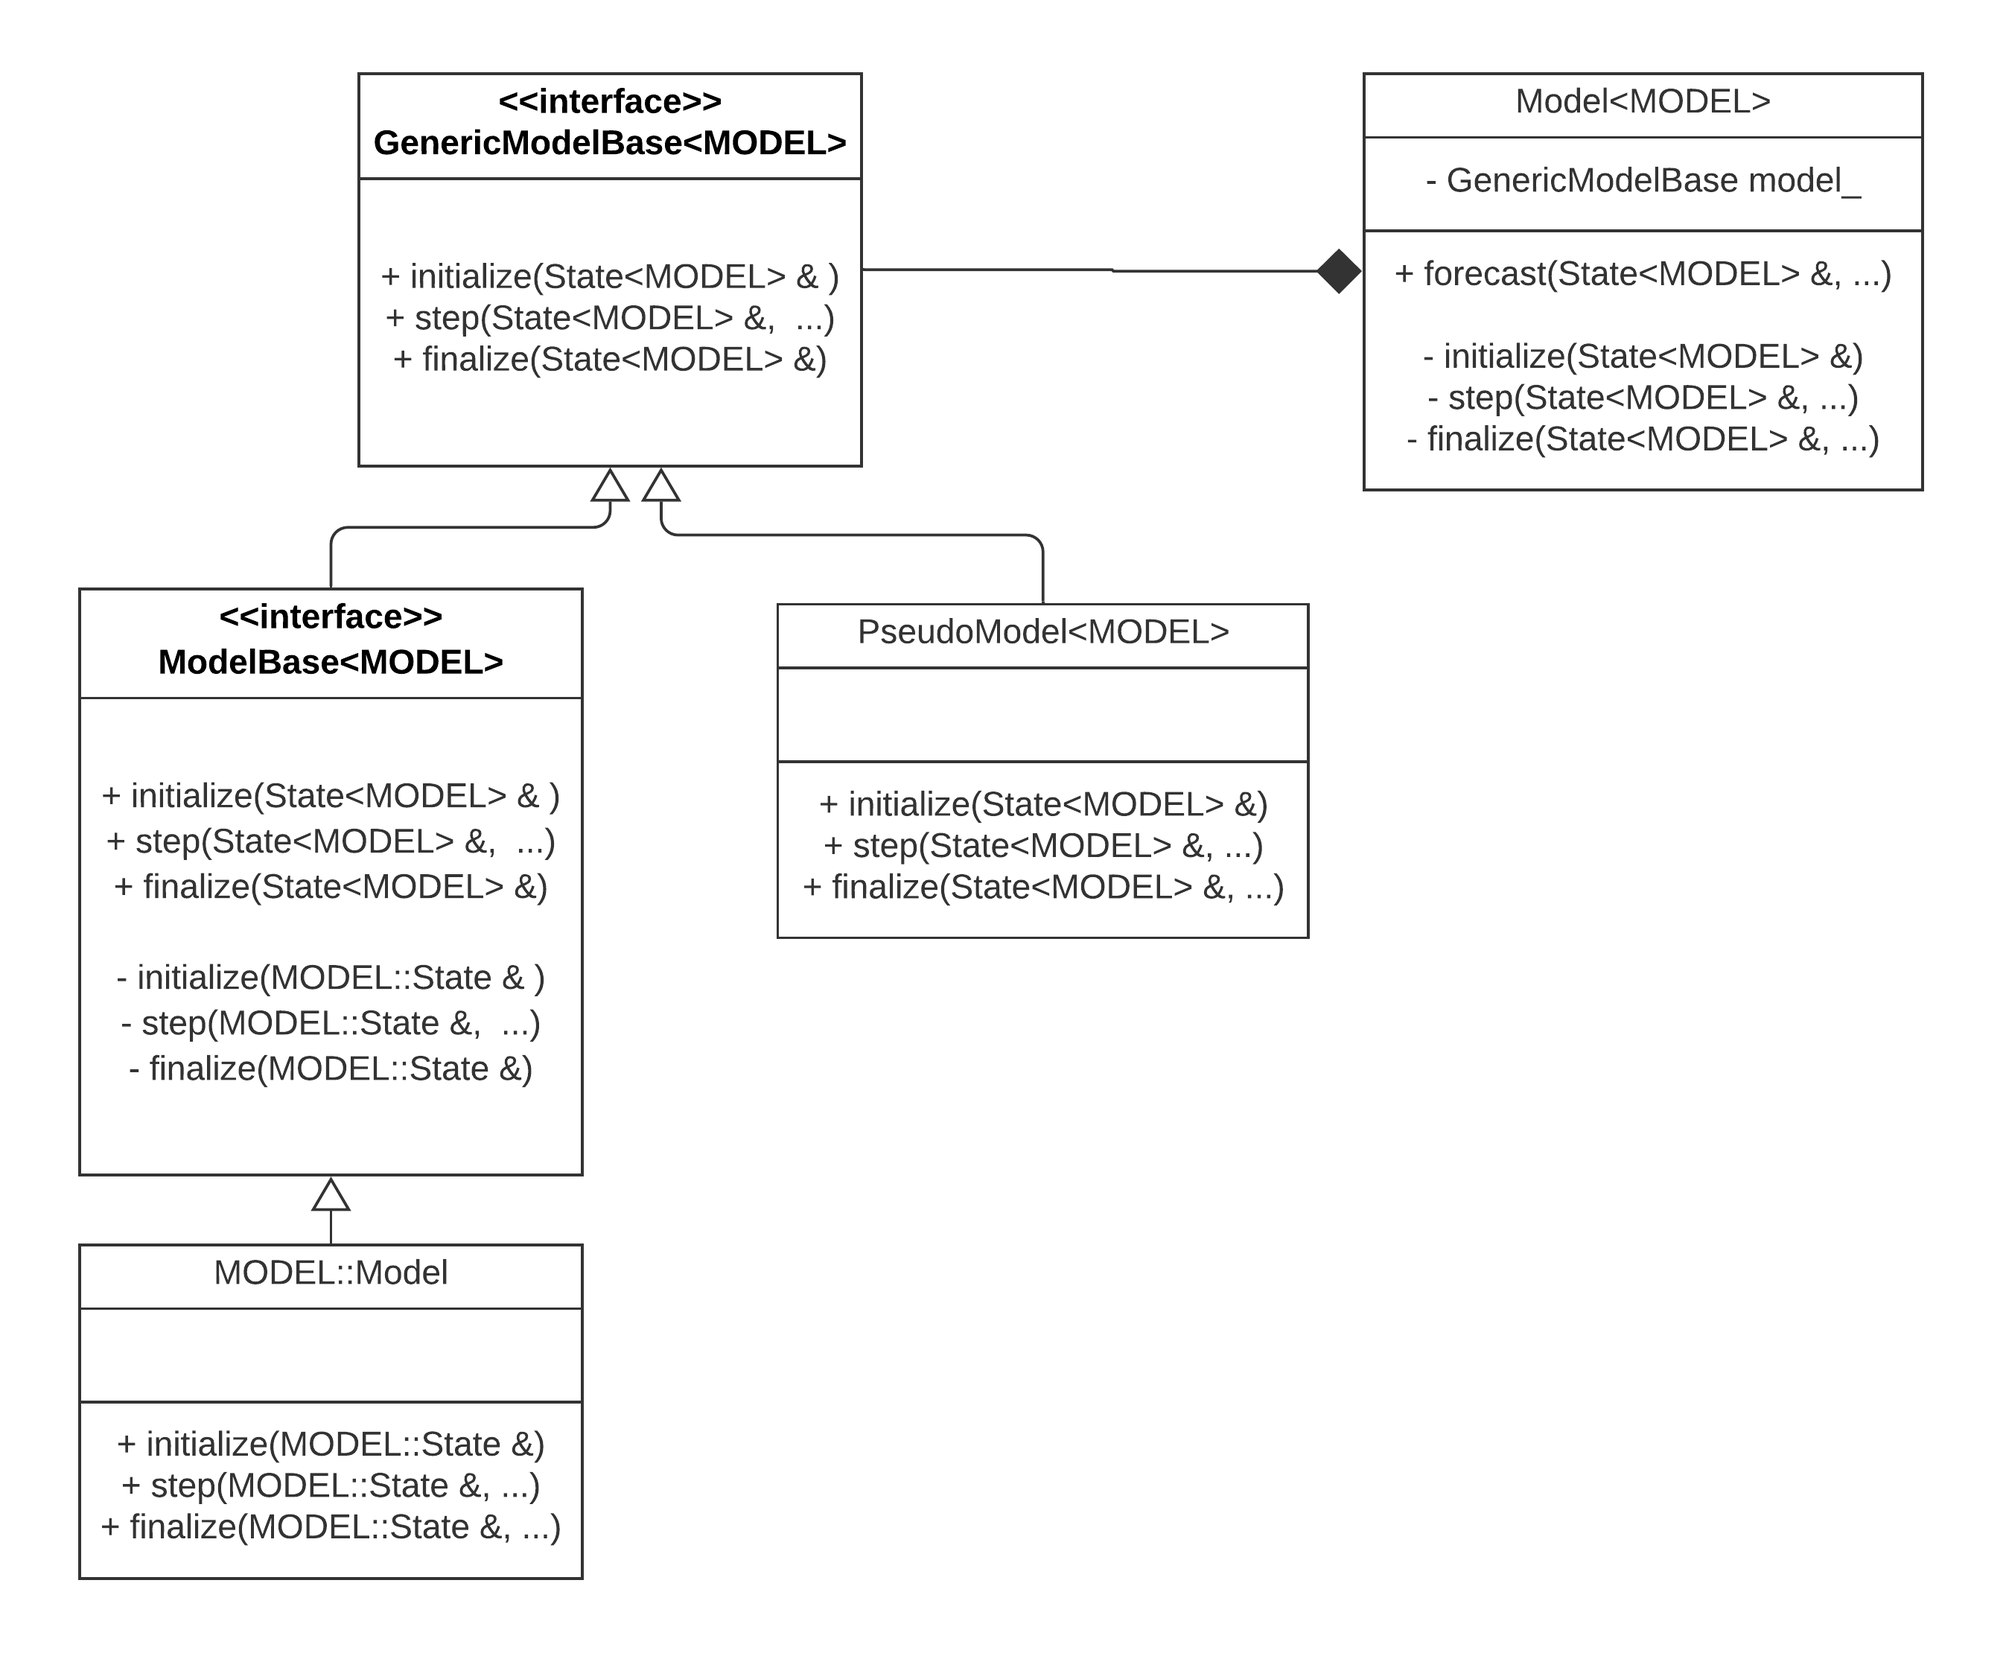
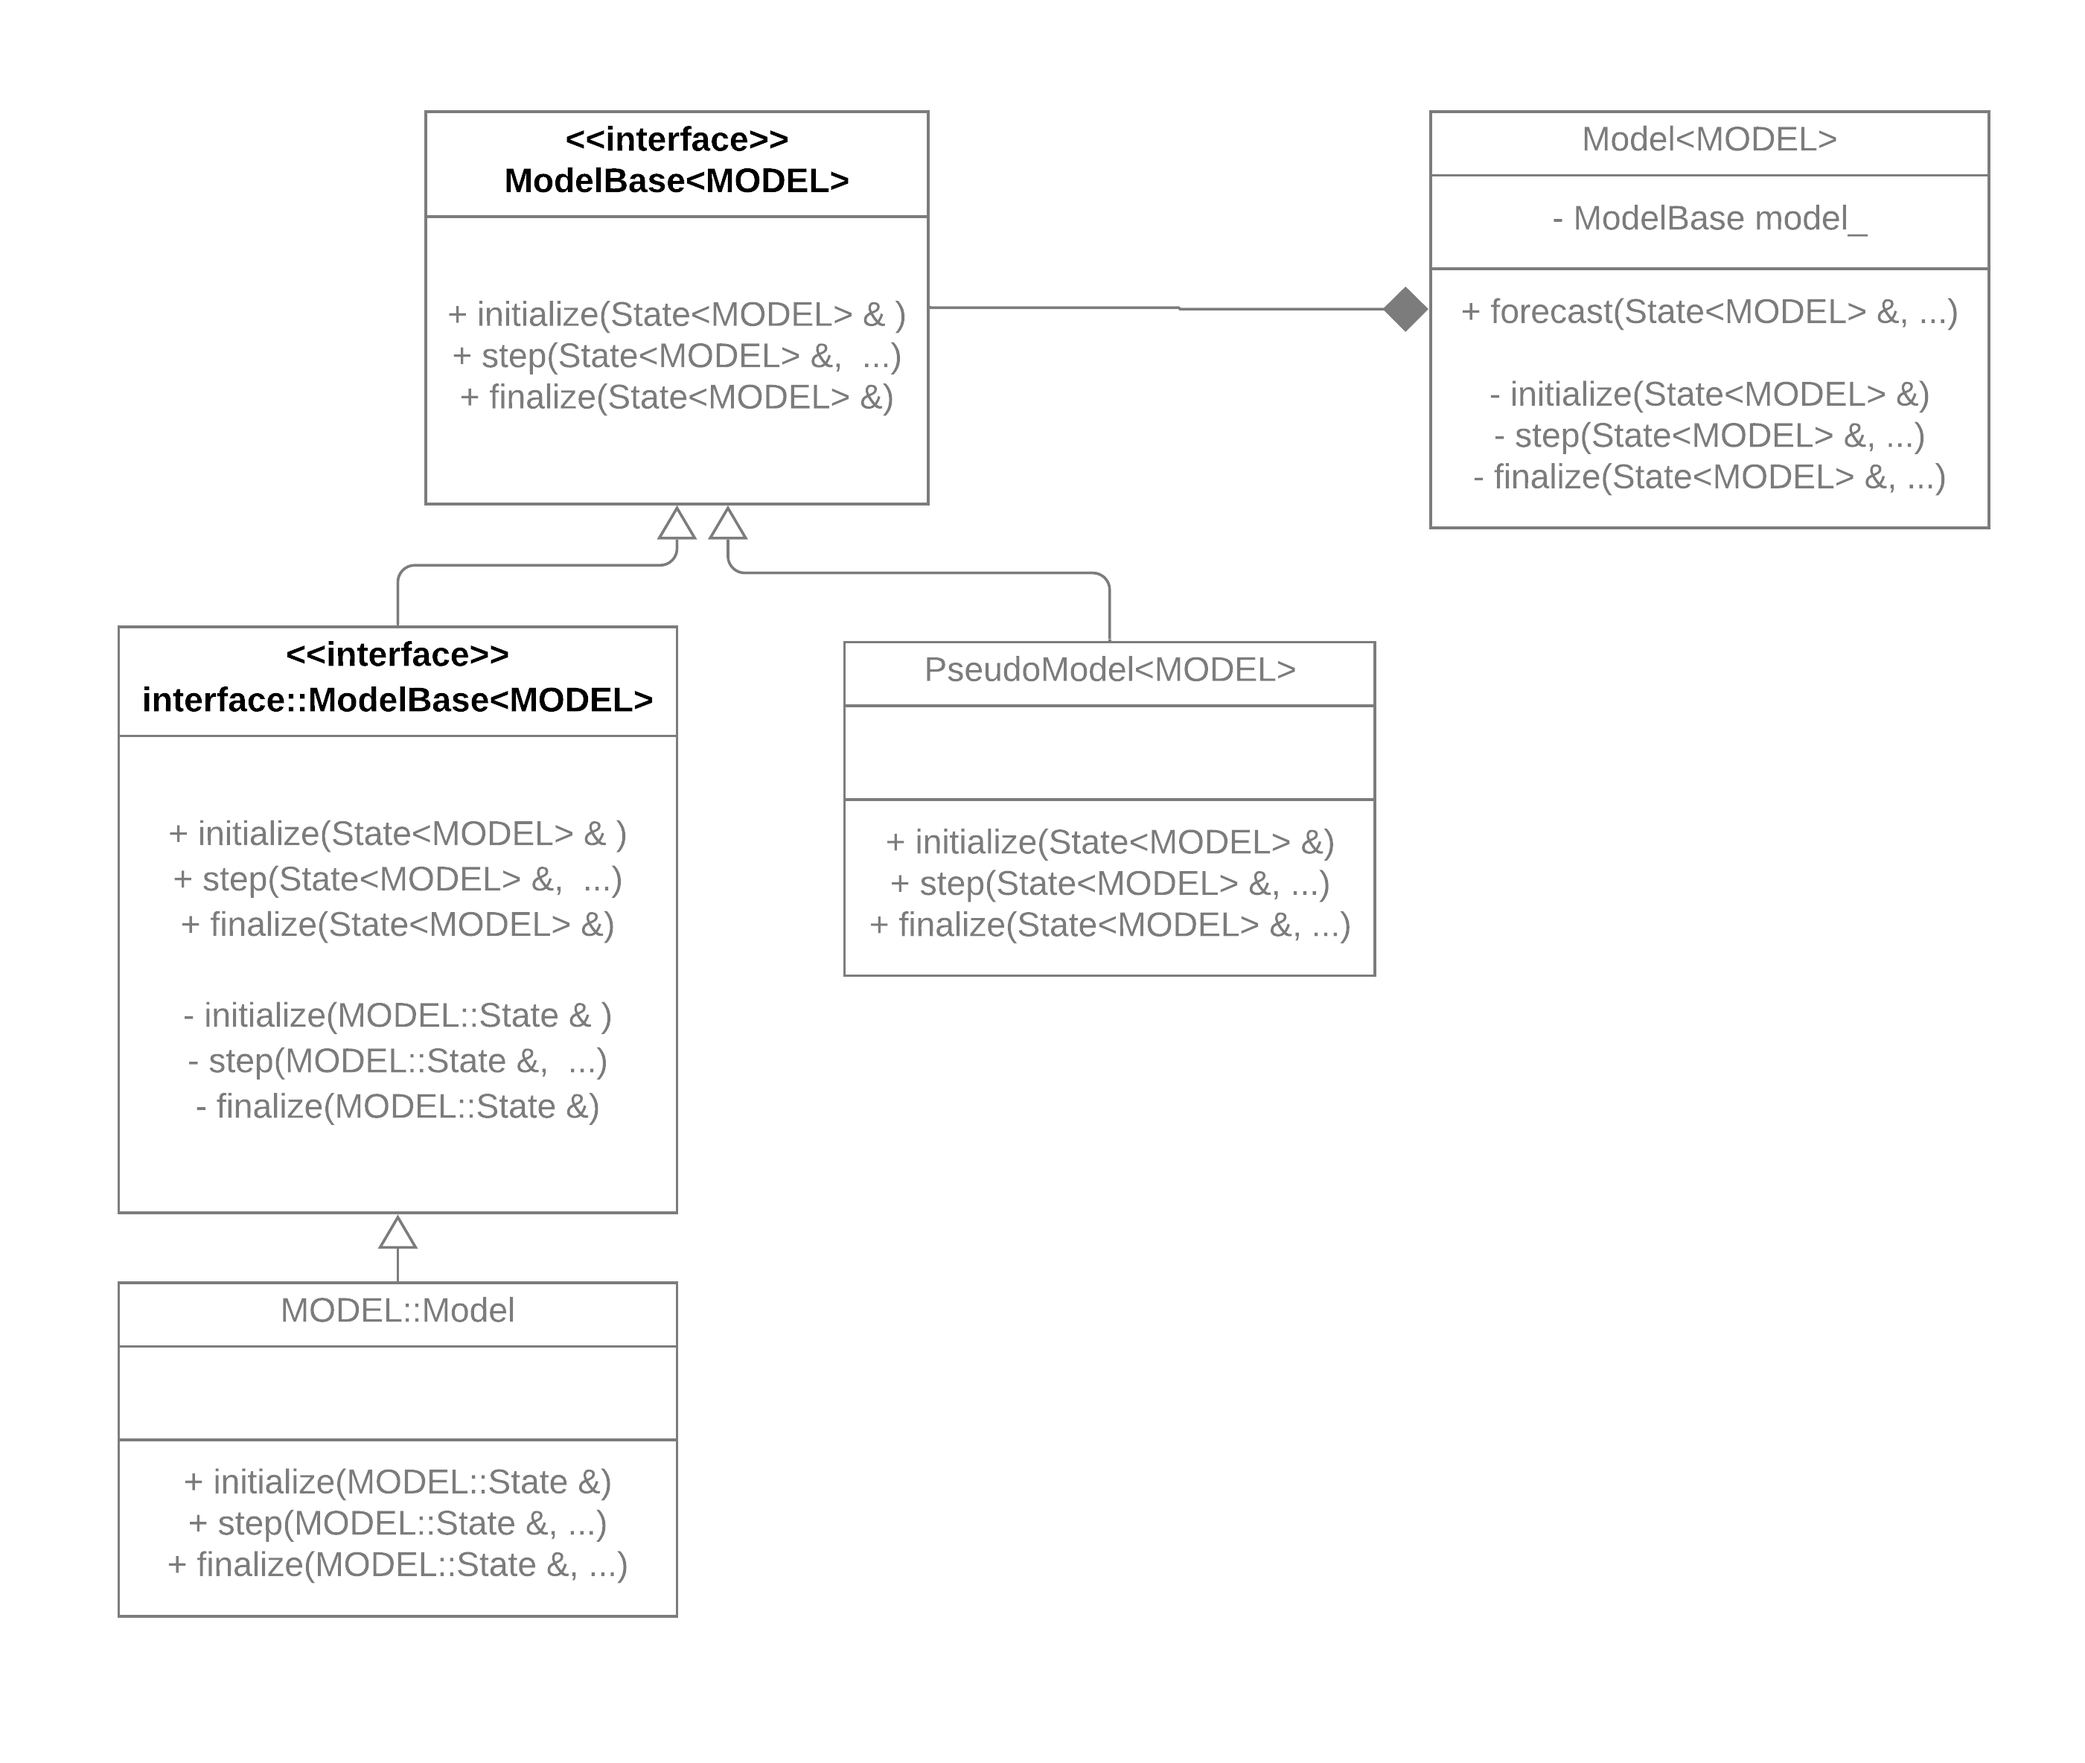
update interface classes description (#224)
* update interface classes description

* typo

diff --git a/docs/inside/jedi-components/oops/interfaces/interfaces.rst b/docs/inside/jedi-components/oops/interfaces/interfaces.rst
@@ -54,18 +54,20 @@ Example of OOPS implementation of classes defined in traits
 
    Class diagram for Geometry-related classes
 
-Here :code:`MODEL::Geometry` implementation (an implementation of :code:`Geometry` specified in the :code:`MODEL` traits, e.g. Geometry implemented in Lorenz95 model, or fv3-jedi model, or mpas-jedi model) has to implement the interface defined in :code:`interface::Geometry<MODEL>`. :code:`interface::Geometry<MODEL>` holds a pointer to :code:`MODEL::Geometry` implementation; each of the methods in :code:`interface::Geometry<MODEL>` calls a corresponding method in :code:`MODEL::Geometry` (with added tracing and timing). If any of the :code:`interface::Geometry<MODEL>` methods took :code:`SomeClass<MODEL>` on input, :code:`MODEL::SomeClass` would be passed during the call to the :code:`MODEL::Geometry` implementation of the method.
+Here :code:`MODEL::Geometry` implementation (an implementation of :code:`Geometry` specified in the :code:`MODEL` traits, e.g. Geometry implemented in Lorenz95 model, or fv3-jedi model, or mpas-jedi model) has to implement the interface defined in :code:`interface::Geometry<MODEL>` class (in the :code:`interface` directory in oops). :code:`interface::Geometry<MODEL>` holds a pointer to :code:`MODEL::Geometry` implementation; each of the methods in :code:`interface::Geometry<MODEL>` calls a corresponding method in :code:`MODEL::Geometry` (with added tracing and timing). If any of the :code:`interface::Geometry<MODEL>` methods took :code:`SomeClass<MODEL>` on input, :code:`MODEL::SomeClass` would be passed during the call to the :code:`MODEL::Geometry` implementation of the method.
 
-:code:`Geometry<MODEL>` is a class that is used in oops classes interacting with geometries. It is a subclass of :code:`interface::Geometry<MODEL>` that has additional functionality that is implemented at oops level (and doesn’t have to be implemented in :code:`MODEL` implementations).
+:code:`Geometry<MODEL>` (in the :code:`base` directory in oops) is a class that is used in oops classes interacting with geometries. It is a subclass of :code:`interface::Geometry<MODEL>` that has additional functionality that is implemented at oops level (and doesn’t have to be implemented in :code:`MODEL` implementations).
 
 .. note:: Not all the interface classes are implemented with :code:`interface::Class` and :code:`Class` distinction yet.
+
+.. note:: For the interface classes that do not need additional functionality implemented at oops level (e.g :code:`ObsOperator`, :code:`GetValues`), there is no need for :code:`interface::Class` and :code:`Class` distinction. In this case :code:`Class` interface class is located in :code:`interface` directory.
 
 Interface classes chosen at runtime
 ===================================
 
 For classes in this category, there could be multiple implementations of the class, both *generic* and *specific*. *Generic* implementations are templated on the :code:`MODEL` and/or :code:`OBS` trait and can be instantiated for any (or at least multiple) implementations of these traits. :code:`MODEL`- and :code:`OBS`-*specific* implementations are not templated on :code:`MODEL` or :code:`OBS` -- they are tied to a specific implementation of these traits. The classes in this category are typically not defined in :code:`OBS` or :code:`MODEL` traits, and the class used in each particular case is decided at runtime, based on provided configuration file.
 
-Some of the classes that are currently this category: :code:`Model`, :code:`VariableChange`, :code:`ObsError`, :code:`ObsFilter`.
+Some of the classes that are currently in this category: :code:`Model`, :code:`ObsError`, :code:`ObsFilter`.
 
 :numref:`oops-model-classdiagram` shows class diagram for the :code:`Model` class.
 
@@ -75,10 +77,10 @@ Some of the classes that are currently this category: :code:`Model`, :code:`Vari
 
    Class diagram for Model-related classes
 
-:code:`GenericModelBase<MODEL>` methods have templated parameters (e.g. :code:`State<MODEL>` in the example). Its subclasses, *generic* implementations of :code:`Model`, can operate on multiple implementations of :code:`MODEL` traits (e.g. :code:`PseudoModel<MODEL>` which "propagates" model by reading precomputed states from files).
+:code:`ModelBase<MODEL>` class methods have templated parameters (e.g. :code:`State<MODEL>` in the example). Its subclasses, *generic* implementations of :code:`Model`, can operate on multiple implementations of :code:`MODEL` traits (e.g. :code:`PseudoModel<MODEL>` which "propagates" model by reading precomputed states from files). Both :code:`ModelBase<MODEL>` and *generic* implementations of :code:`Model` reside in :code:`generic` directory in oops.
 
-:code:`ModelBase<MODEL>` is a subclass of :code:`GenericModelBase<MODEL>` that overrides all methods that take templated parameters with calls to the abstract methods that take parameters tied to a specific implementation of the traits (e.g. :code:`MODEL::State` in the example). Subclasses of :code:`ModelBase<MODEL>` are not templated on :code:`MODEL` and are tied to specific implementations of :code:`MODEL` trait (e.g. Lorenz95 prognostic model, FV3-GEOS, FV3-GFS, etc).
+:code:`interface::ModelBase<MODEL>` (in the :code:`interface` directory) is a subclass of :code:`ModelBase<MODEL>` that overrides all methods that take templated parameters with calls to the abstract methods that take parameters tied to a specific implementation of the traits (e.g. :code:`MODEL::State` in the example). Subclasses of :code:`interface::ModelBase<MODEL>` are not templated on :code:`MODEL` and are tied to specific implementations of :code:`MODEL` trait (e.g. Lorenz95 prognostic model, FV3-GEOS, FV3-GFS, etc).
 
-:code:`Model<MODEL>` holds a pointer to :code:`GenericModelBase<MODEL>`. It has methods that correspond to all the methods in :code:`GenericModelBase<MODEL>`; each of those methods calls a corresponding method in :code:`GenericModelBase<MODEL>` (with added tracing and timing). There is also additional functionality in :code:`Model<MODEL>` that is included at oops level (and doesn’t have to be included in the implementations), e.g. :code:`forecast` method.
+:code:`Model<MODEL>` (in the :code:`base` directory) holds a pointer to :code:`ModelBase<MODEL>`. It has methods that correspond to all the methods in :code:`ModelBase<MODEL>`; each of those methods calls a corresponding method in :code:`ModelBase<MODEL>` (with added tracing and timing). There is also additional functionality in :code:`Model<MODEL>` that is included at oops level (and doesn’t have to be included in the implementations), e.g. :code:`forecast` method.
 
 .. note:: Not all the interface classes in this category are implemented according to the above class diagram yet, but the intention is to implement all of them in a similar way.
